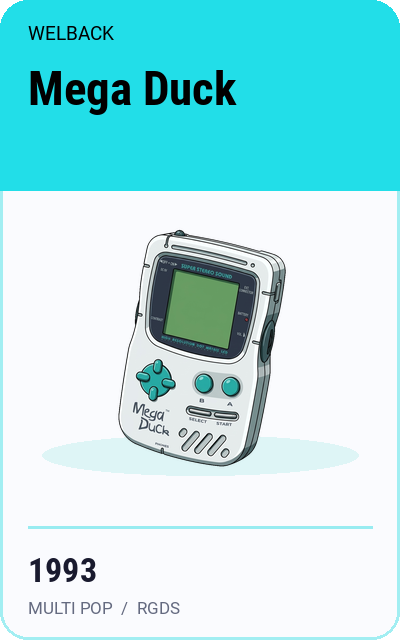
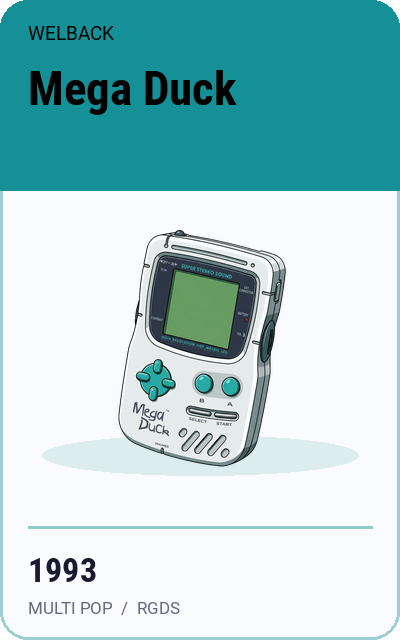
fix: accent colors for scv and megaduck

diff --git a/tools/build-multi-pop-art.py b/tools/build-multi-pop-art.py
@@ -86,8 +86,8 @@ SYSTEMS = {
     "fds": ("Famicom Disk System", "Nintendo", "1986", "99132E"),
     "msx2": ("MSX2", "MSX", "1985", "161313"),
     "megacd": ("Mega CD", "Sega", "1992", "7D89C4"),
-    "scv": ("Super Cassette Vision", "Epoch", "1984", "E88F22"),
-    "megaduck": ("Mega Duck", "Welback", "1993", "22DEE8"),
+    "scv": ("Super Cassette Vision", "Epoch", "1984", "BB731B"),
+    "megaduck": ("Mega Duck", "Welback", "1993", "159097"),
     "n64dd": ("Nintendo 64 DD", "Nintendo", "1999", "1A826B"),
     "pokemini": ("Pokémon Mini", "Nintendo", "2001", "5F1A82"),
     "doom": ("Doom", "ID", "1993", "1C380A"),
